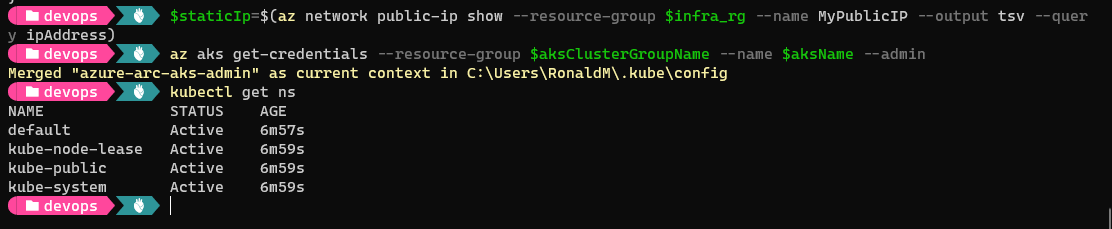
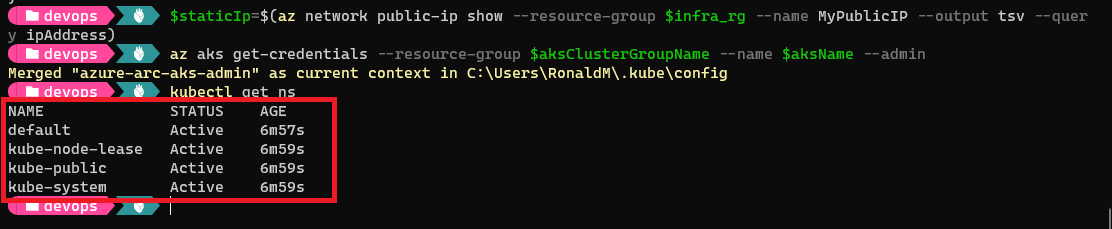
Updates.

Changed region(s): [[0.0, 0.3974, 0.3058, 0.8865]]

diff --git a/_posts/2021-12-01-azure-arc-kubernetes-app-service.md b/_posts/2021-12-01-azure-arc-kubernetes-app-service.md
@@ -182,6 +182,10 @@ az k8s-extension create --resource-group $aksClusterGroupName --name $extensionN
 
 <img src="https://github.com/RonaldMariah/ronaldmariah.github.io/raw/master/assets/azure-arc-kubernetes-app-service/Screenshot 2021-12-01 143020.png" />
 
+Once 'Installed', if we now do a 'kubectl get ns' we should see the namespaces for the App Services
+
+<img src="https://github.com/RonaldMariah/ronaldmariah.github.io/raw/master/assets/azure-arc-kubernetes-app-service/Screenshot 2021-12-02 091832.png" />
+
 **Get the Extension ID of the App Service extension**
 
 ```
